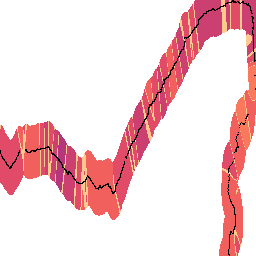
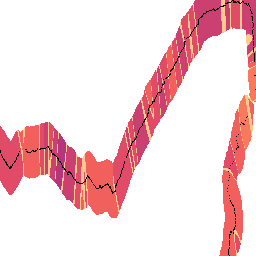
усреднение точек

diff --git a/termalmap.py b/termalmap.py
@@ -28,7 +28,7 @@ DRAW_DOTS=True
 output_dir = "out/"
 
 # at what distance should we stop making predctions?
-IGNORE_DIST=0.002
+IGNORE_DIST=0.001
 
 def pixel_to_ll(x,y):
     delta_lat = MAX_LAT-MIN_LAT
@@ -467,23 +467,34 @@ def absolute_rsrp_single(pricem, lat, lon):
 
 def average(priced_points):
     averaged_points = []
+    summ = 0
+    point_count = 5
+    for i in range(len(priced_points)):
+        summ += priced_points[i][0]
+        if i%point_count==0:
+            sred = summ/point_count
+            point = priced_points[i-int(point_count/2)]
+            point[0] = sred
+            averaged_points.append(point)
+            summ = 0
     return averaged_points
     
 def start(fname):
     print("loading data...")
-   # priced_points, slope, y_intercept = load_prices(fname)
+   
     priced_points = []
     for item in fname:
         if int(item['rsrp']) <= -60 and int(item['rsrp']) >= -125:
-            priced_points.append((int(item['rsrp']), float(item['latitude']), float(item['longitude'])))
+            priced_points.append([int(item['rsrp']), float(item['latitude']), float(item['longitude'])])
 
+    print(len(priced_points))    
+    priced_points = average(priced_points)
     print("pricing all the points...")
     prices = {}
     for x in range(MAX_X):
         print("  %s/%s" % (x, MAX_X))
         for y in range(MAX_Y):
             lat, lon = pixel_to_ll(x,y)
-            #prices[x,y] = absolute_rsrp_single(priced_points, lat, lon)
             prices[x,y] = gaussian(priced_points, lat, lon)
 
     # color regions by price
